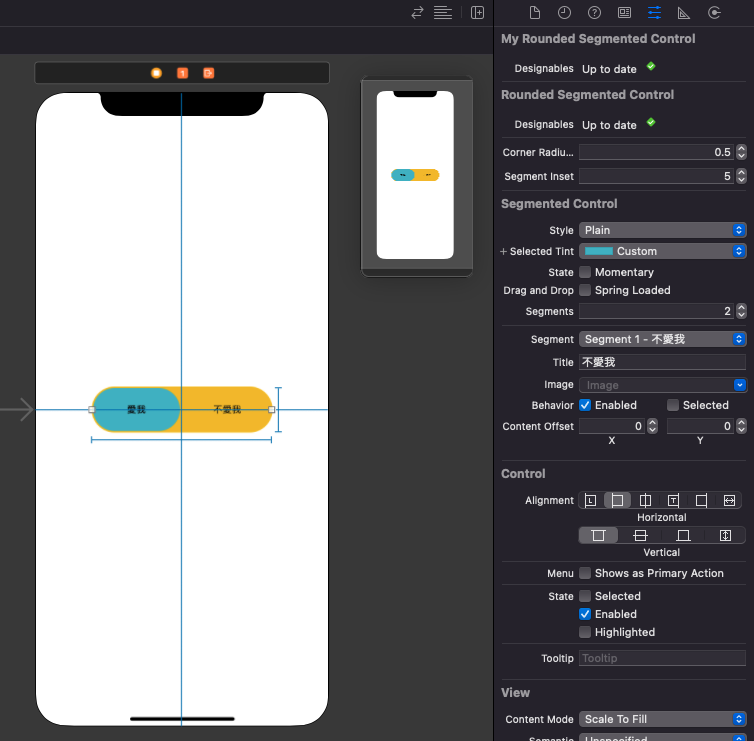
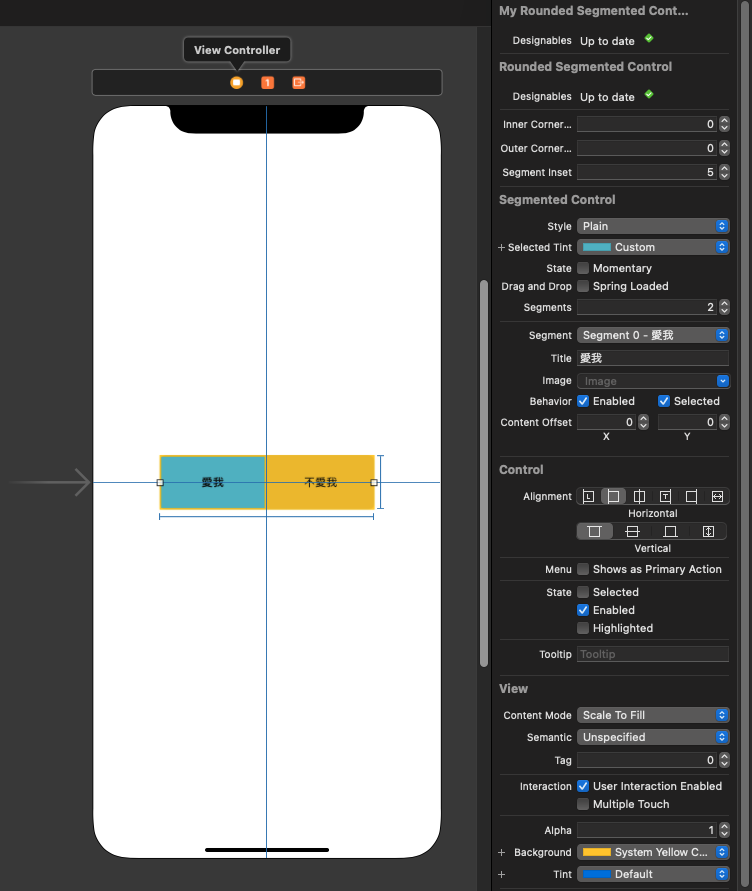
- 加上直接設定圓角大小功能 (可以設定成直角)

diff --git a/Sources/WWRoundedSegmentedControl/RoundedSegmentedControl.swift b/Sources/WWRoundedSegmentedControl/RoundedSegmentedControl.swift
@@ -11,8 +11,11 @@ import UIKit
 @IBDesignable
 open class WWRoundedSegmentedControl: UISegmentedControl {
     
-    @IBInspectable var cornerRadiusPercent: CGFloat = 0.5
+    @IBInspectable var innerCornerRadius: CGFloat = 8
+    @IBInspectable var outerCornerRadius: CGFloat = 8
     @IBInspectable var segmentInset: CGFloat = 5
+    
+    private var cornerRadiusPercent: CGFloat?
     
     public override func layoutSubviews() {
         super.layoutSubviews()
@@ -38,10 +41,23 @@ public extension WWRoundedSegmentedControl {
         self.cornerRadiusPercent = cornerRadiusPercent
         self.segmentInset = segmentInset
         
-        initSetting()
+        updateSetting()
+    }
+    
+    /// 改變圓角大小跟選項間隔
+    /// - Parameters:
+    ///   - cornerRadiusPercent: 圓角比例
+    ///   - segmentInset: 選項間隔
+    ///   - innerCornerRadius: 內部選項圓角
+    ///   - outerCornerRadius: 外部外框圓角
+    func change(innerCornerRadius: CGFloat, outerCornerRadius: CGFloat, segmentInset: CGFloat) {
         
-        setNeedsLayout()
-        layoutIfNeeded()
+        self.cornerRadiusPercent = nil
+        self.innerCornerRadius = innerCornerRadius
+        self.outerCornerRadius = outerCornerRadius
+        self.segmentInset = segmentInset
+        
+        updateSetting()
     }
 }
 
@@ -54,10 +70,24 @@ private extension WWRoundedSegmentedControl {
         roundedCornersSetting()
     }
     
+    func updateSetting() {
+        
+        initSetting()
+        setNeedsLayout()
+        layoutIfNeeded()
+    }
+    
     /// 圓角設定
     func cornerRadiusSetting() {
+        
+        var cornerRadius = outerCornerRadius
+        
+        if let cornerRadiusPercent = cornerRadiusPercent {
+            cornerRadius = bounds.height * cornerRadiusPercent
+        }
+        
         layer.masksToBounds = true
-        layer.cornerRadius = bounds.height * cornerRadiusPercent
+        layer.cornerRadius = cornerRadius
     }
     
     /// [設定圓角](https://stackoverflow.com/questions/23317645/how-to-change-the-corner-radius-of-uisegmentedcontrol)
@@ -75,6 +105,10 @@ private extension WWRoundedSegmentedControl {
         foregroundImageView.image = UIImage._colorImage(selectedSegmentTintColor ?? .gray)
         foregroundImageView.layer._removeAnimation(forKey: "SelectionBounds")
         foregroundImageView.layer.masksToBounds = true
-        foregroundImageView.layer.cornerRadius = foregroundImageView.bounds.height * cornerRadiusPercent
+        foregroundImageView.layer.cornerRadius = innerCornerRadius
+        
+        if let cornerRadiusPercent = cornerRadiusPercent {
+            foregroundImageView.layer.cornerRadius = foregroundImageView.bounds.height * cornerRadiusPercent
+        }
     }
 }

diff --git a/Example/Example/ViewController/ViewController.swift b/Example/Example/ViewController/ViewController.swift
@@ -18,8 +18,8 @@ final class ViewController: UIViewController {
     override func viewDidLoad() {
         super.viewDidLoad()
         
-        DispatchQueue.main.asyncAfter(deadline: .now() + 5) {
-            self.mySegmentedControl.change(cornerRadiusPercent: 0.3, segmentInset: 10)
+        DispatchQueue.main.asyncAfter(deadline: .now() + 3) { [unowned self] in
+            mySegmentedControl.change(cornerRadiusPercent: 0.5, segmentInset: 5)
         }
     }
 }

diff --git a/README.md b/README.md
@@ -3,8 +3,8 @@
 [![Swift-5.6](https://img.shields.io/badge/Swift-5.6-orange.svg?style=flat)](https://developer.apple.com/swift/) [![iOS-14.0](https://img.shields.io/badge/iOS-14.0-pink.svg?style=flat)](https://developer.apple.com/swift/) [![Swift Package Manager-SUCCESS](https://img.shields.io/badge/Swift_Package_Manager-SUCCESS-blue.svg?style=flat)](https://developer.apple.com/swift/) [![LICENSE](https://img.shields.io/badge/LICENSE-MIT-yellow.svg?style=flat)](https://developer.apple.com/swift/) ![TAG](https://img.shields.io/github/v/tag/William-Weng/WWRoundedSegmentedControl)
 
 ### [Introduction - 簡介](https://swiftpackageindex.com/William-Weng)
-- Add the rounded corner function to the original UISegmentedControl.
-- 將原本的UISegmentedControl，加上圓角功能。
+- [Add the rounded corner function to the original UISegmentedControl.](https://useyourloaf.com/blog/replacing-ibdesignable-with-xcode-previews/)
+- [將原本的UISegmentedControl，加上圓角功能。](https://developer.apple.com/documentation/xcode-release-notes/xcode-16-release-notes#Interface-Builder)
 
 ![WWRoundedSegmentedControl](./Example.png)
 ![WWRoundedSegmentedControl](./Example.gif)
@@ -12,7 +12,7 @@
 ### [Installation with Swift Package Manager](https://medium.com/彼得潘的-swift-ios-app-開發問題解答集/使用-spm-安裝第三方套件-xcode-11-新功能-2c4ffcf85b4b)
 ```swift
 dependencies: [
-    .package(url: "https://github.com/William-Weng/WWRoundedSegmentedControl.git", .upToNextMajor(from: "1.0.1"))
+    .package(url: "https://github.com/William-Weng/WWRoundedSegmentedControl.git", .upToNextMajor(from: "1.1.0"))
 ]
 ```
 
@@ -20,6 +20,7 @@ dependencies: [
 |函式|功能|
 |-|-|
 |change(cornerRadiusPercent:segmentInset:)|改變圓角比例跟選項間隔|
+|change(innerCornerRadius:outerCornerRadius:segmentInset:)|改變圓角大小跟選項間隔|
 
 ### Example
 ```swift
@@ -35,8 +36,8 @@ final class ViewController: UIViewController {
     override func viewDidLoad() {
         super.viewDidLoad()
         
-        DispatchQueue.main.asyncAfter(deadline: .now() + 5) {
-            self.mySegmentedControl.change(cornerRadiusPercent: 0.3, segmentInset: 10)
+        DispatchQueue.main.asyncAfter(deadline: .now() + 3) { [unowned self] in
+            mySegmentedControl.change(cornerRadiusPercent: 0.5, segmentInset: 5)
         }
     }
 }
